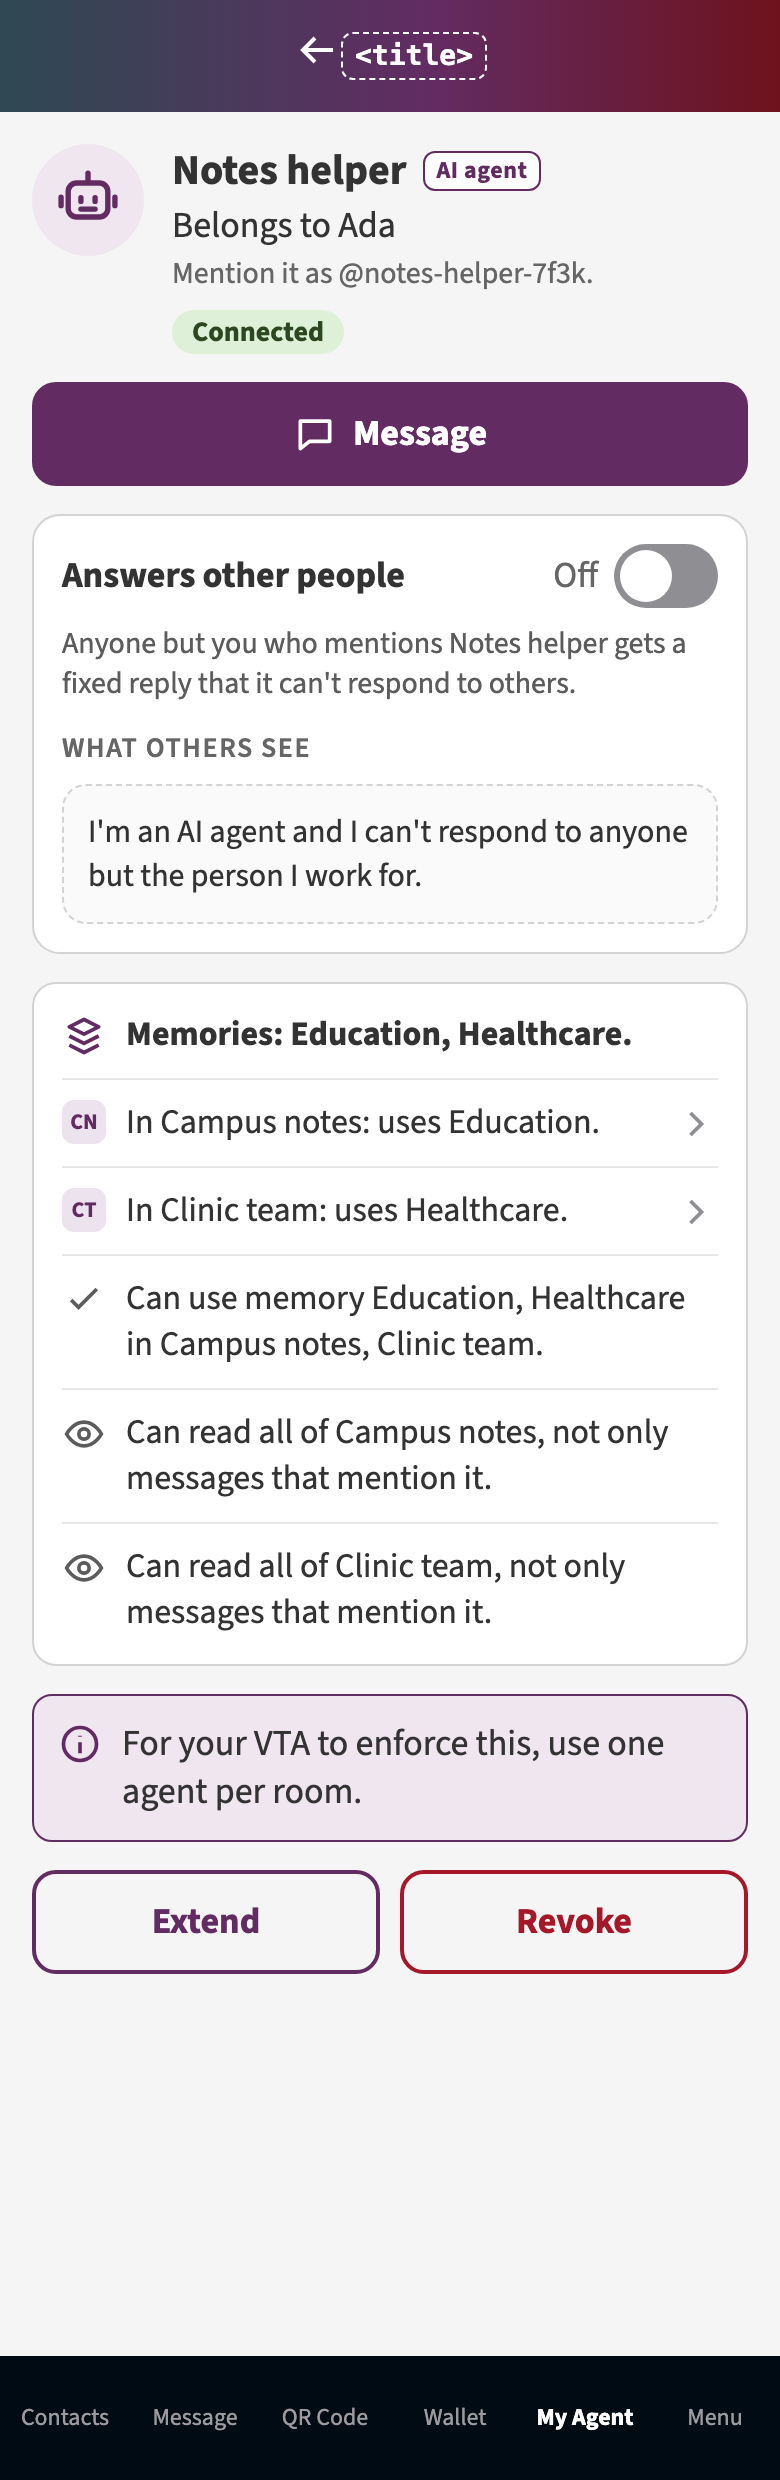
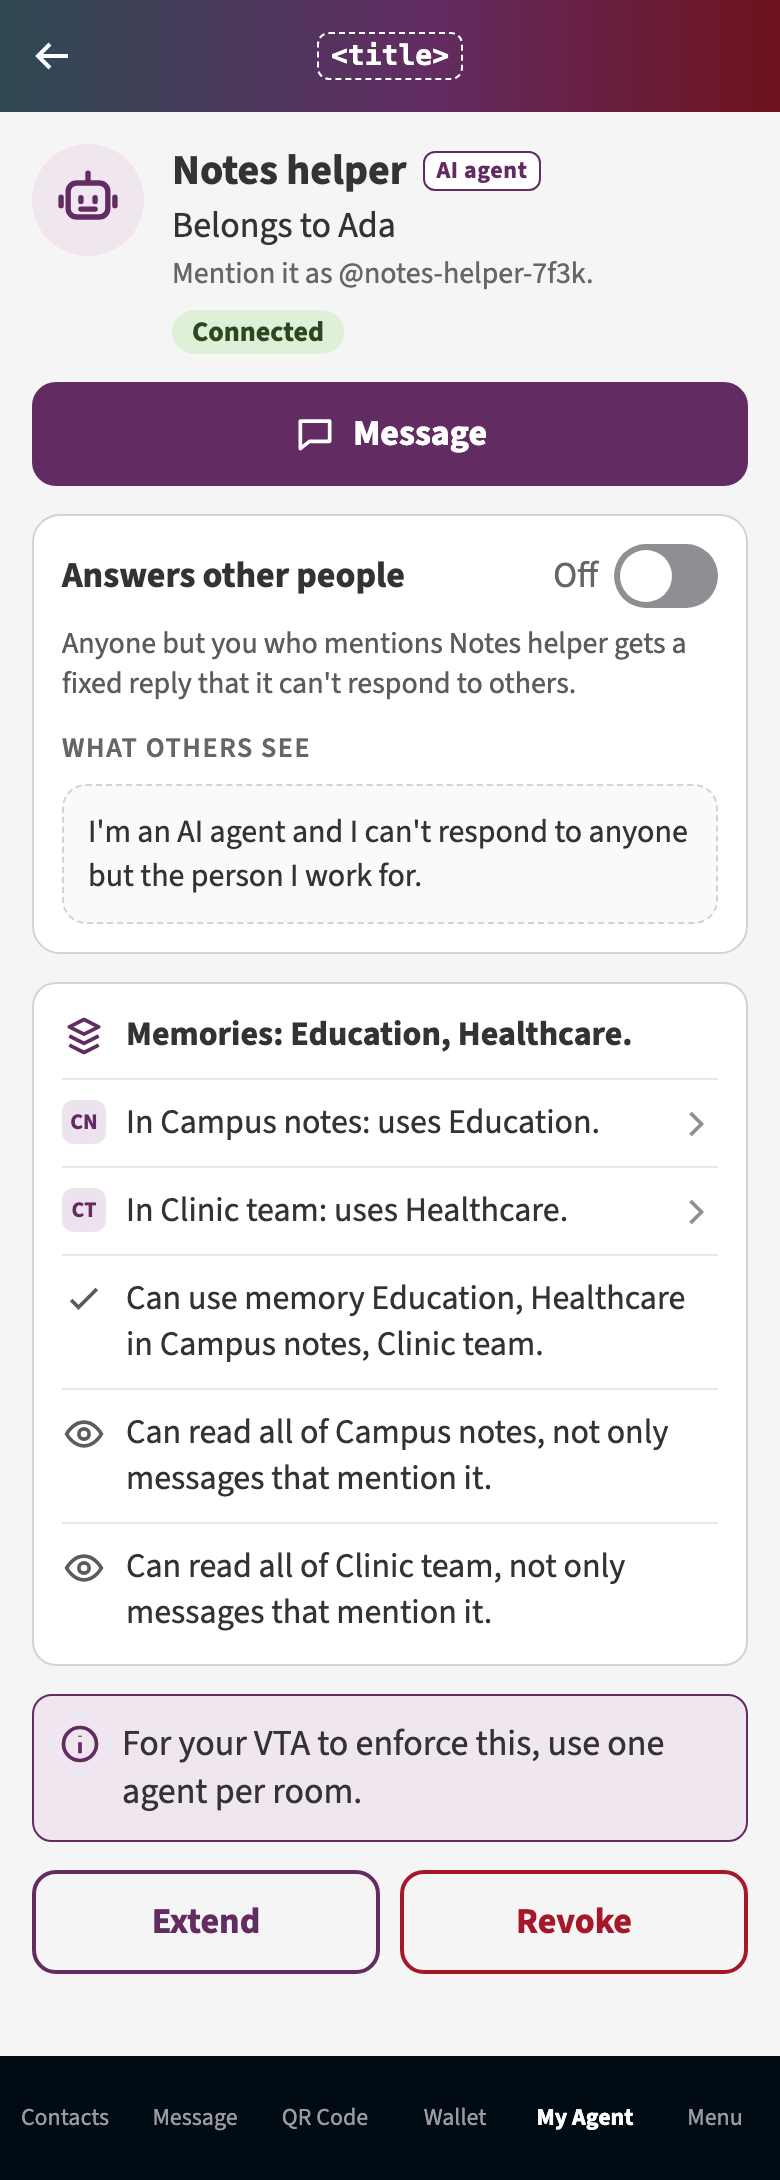
docs(plans): agent connect canvas export at version 16; the header's back arrow keeps its place
The UI/UX lane's fixes after the first render (full-size ticks, the status
sheet and the details at their real heights, the room's post visible behind
each sheet) and the export script's own fix: a header's first link becomes a
span with the back-arrow class, so the arrow stays pinned to the left edge
as the stylesheet pins a link there.

diff --git a/scripts/plans/export-canvas.py b/scripts/plans/export-canvas.py
@@ -35,7 +35,10 @@ def static_page(dc_html: str) -> str:
     body = re.search(r"</helmet>(.*?)</x-dc>", dc_html, re.S)
     head = helmet.group(1) if helmet else ""
     inner = body.group(1) if body else dc_html
-    inner = re.sub(r"<a\b", "<span data-link", inner)  # links are navigation in the canvas, not content
+    # Links are navigation in the canvas, not content. A header's first link is its back arrow, which the
+    # stylesheet pins to the left edge through ".hd a, .hd .bk"; the replacement span keeps that rule by class.
+    inner = re.sub(r'(<div class="hd">)<a\b', r'\1<span class="bk" data-link', inner)
+    inner = re.sub(r"<a\b", "<span data-link", inner)
     inner = inner.replace("</a>", "</span>")
     return (
         "<!doctype html><html lang=\"en\"><head><meta charset=\"utf-8\">"

diff --git a/docs/plans/agent-connect-plan/canvas/README.md b/docs/plans/agent-connect-plan/canvas/README.md
@@ -1,6 +1,6 @@
 # The UI/UX canvas, exported
 
-Exported from the UI/UX lane's canvas, artifact version `1795468233-bf27 (the UI/UX lane's canvas version 15, 2026-11-23)`, by `scripts/plans/export-canvas.py`.
+Exported from the UI/UX lane's canvas, artifact version `1795468652-652a (the UI/UX lane's canvas version 16, 2026-11-23)`, by `scripts/plans/export-canvas.py`.
 One PNG per artboard, in the canvas's order, rendered with headless Chrome at the board's size at twice the
 pixel density from the published artboard files and their shared stylesheet; `sheet.png` is all of them, three
 to a row. These are the visual target for the screens (the plan's section 8.5); the kit SVGs in `../mockups/`
@@ -18,10 +18,10 @@ remain the checked source for the copy. Re-export when a new canvas version is a
 | 8 | `08-connected.png` | 5b Connected | 390×844 |
 | 9 | `09-expired.png` | 18 Code expired | 390×844 |
 | 10 | `10-agent-list.png` | 6 AI agents: the My Agent tab's first screen | 390×844 |
-| 11 | `11-agent-list-states.png` | 6b Reference, not a real screen: every status a list row can show | 390×1040 |
+| 11 | `11-agent-list-states.png` | 6b Reference, not a real screen: every status a list row can show | 390×1190 |
 | 12 | `12-agent-sheet.png` | 7 Agent sheet, opened in a room: owner, Answers other people | 390×844 |
 | 13 | `13-answers-on.png` | 8 Turning Answers other people on (from the sheet or the details) | 390×844 |
-| 14 | `14-agent-details.png` | 11 Agent details (the whole scroll) | 390×1240 |
+| 14 | `14-agent-details.png` | 11 Agent details (the whole scroll) | 390×1090 |
 | 15 | `15-details-revoke-not-confirmed.png` | 11b Details: Revoke not confirmed | 390×844 |
 | 16 | `16-details-key-changed.png` | 11c Details: the agent changed its key | 390×844 |
 | 17 | `17-revoke.png` | 17 Revoke | 390×844 |
